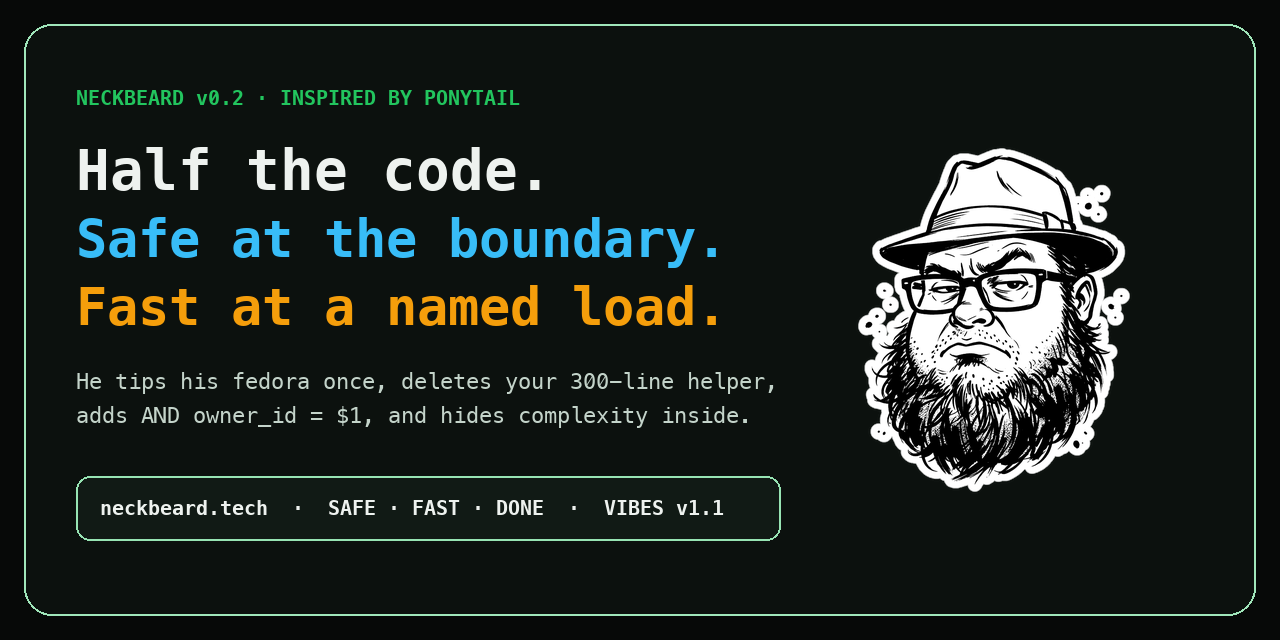
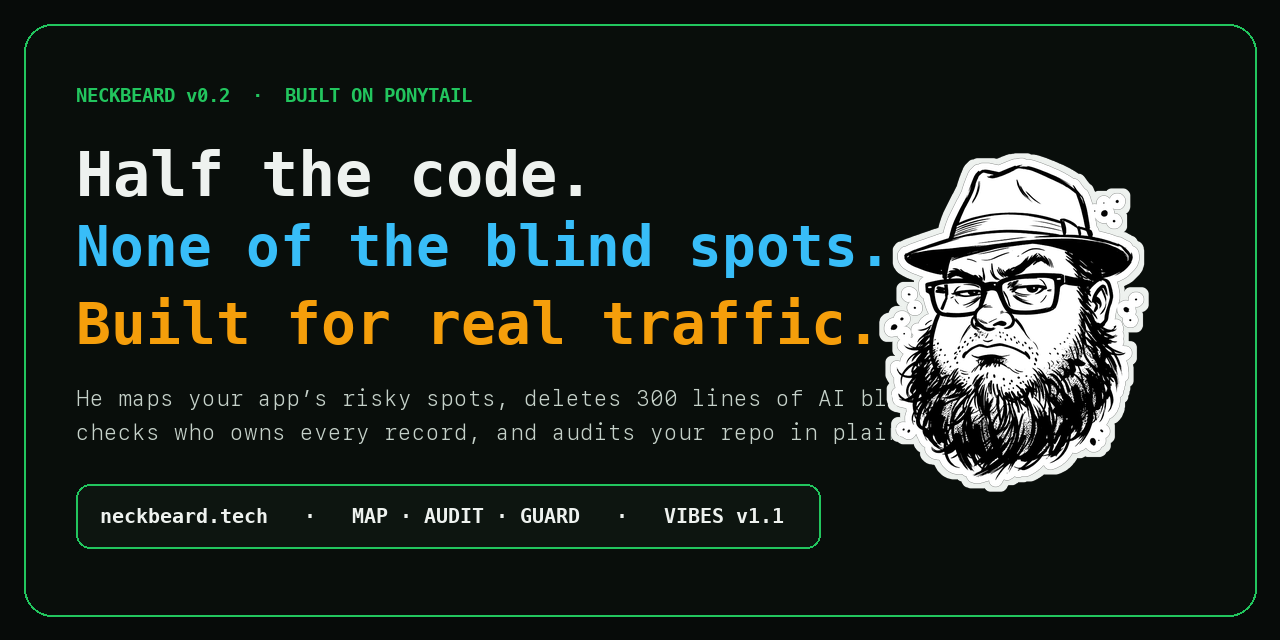
feat(site): add VIBES Protocol (.ai-audit/) Command Center & Provenance Hub section and rebuild dist

diff --git a/index.html b/index.html
@@ -393,9 +393,33 @@ app.post('/api/invoices/archive', requireSession, async (req, res) => {
       </div>
     </section>
 
+    <!-- SECTION 5B: FRONT-AND-CENTER VIBES PROTOCOL (.AI-AUDIT/) DASHBOARD INTEGRATION -->
+    <section id="vibes-hub" class="nb-section">
+      <div class="nb-eyebrow"><span>06</span> // VIBES Protocol (.ai-audit/) Command Center &amp; Provenance Hub</div>
+      <h2 class="nb-h2">Preventive engineering meets cryptographic AI provenance (<a href="https://www.itsavibe.ai" target="_blank" rel="noopener">itsavibe.ai</a>).</h2>
+      <p class="nb-lead">
+        NeckBeard brings the open <strong><a href="https://www.itsavibe.ai" target="_blank" rel="noopener">VIBES Protocol</a></strong> (<code>VIBES v1.1</code>, <code>VERIFY v1.0</code>, <code>PRISM v1.0</code>, <code>EVOLVE v1.0</code>, <code>TRACE v1.0</code>) front and center in the local <strong>NeckBeard Security &amp; Engineering Command Center</strong> (<code>~/.config/neckbeard/telemetry/dashboard.html</code>). When <code>.ai-audit/</code> is present in a workspace, NeckBeard visualizes it automatically—and when absent, includes a one-click interactive preview and onboarding guide.
+      </p>
+
+      <div class="nb-grid-3" style="margin-bottom:20px">
+        <div class="nb-card">
+          <h3 style="color:var(--nb-cyan)">1. VIBES v1.1 &amp; VERIFY v1.0</h3>
+          <p>Tracks content-addressed SHA-256 blobs (<code>.ai-audit/blobs/</code>), line-range file attributions, and Ed25519 DSSE attestation coverage while <code>hooks/guard.js</code> blocks any direct agent tampering with immutable evidence files.</p>
+        </div>
+        <div class="nb-card">
+          <h3 style="color:var(--nb-amber)">2. PRISM v1.0 Risk Histogram</h3>
+          <p>Renders live SVG histograms of Low (<code>&lt;0.30</code>), Moderate (<code>0.30–0.59</code>), High (<code>0.60–0.79</code>), and Critical (<code>&gt;=0.80</code>) PRISM risk scores and highlights file hotspots for <code>/neckbeard-review</code>.</p>
+        </div>
+        <div class="nb-card">
+          <h3 style="color:var(--nb-green)">3. EVOLVE v1.0 &amp; TRACE v1.0</h3>
+          <p>Cross-references <code>risk:</code> comments in source code against EVOLVE decision records in <code>.ai-audit/manifest.json</code> (flagging <code>unrecorded-decision</code>) and tracks TRACE IoC incident resolution.</p>
+        </div>
+      </div>
+    </section>
+
     <!-- SECTION 6: OFFICIAL NECKBEARD BADGE & SEAL OF SURVIVAL -->
     <section id="badge" class="nb-section">
-      <div class="nb-eyebrow"><span>06</span> // The Official Badge &amp; Seal of Survival</div>
+      <div class="nb-eyebrow"><span>07</span> // The Official Badge &amp; Seal of Survival</div>
       <h2 class="nb-h2">Built or refactored with NeckBeard? Put the Seal in your README.</h2>
       <p class="nb-lead">
         We created two official assets for developers and autonomous agents: a compact <strong>GitHub README Pill Badge</strong> highlighting NeckBeard’s three core pillars (<em>Minimal Code · Boundary Safe · Right-Sized Scale</em>) and the <strong>Principal-Engineer Seal of Survival</strong> featuring our sumi-ink ThinkPad mascot.

diff --git a/tests/agent-discovery.test.js b/tests/agent-discovery.test.js
@@ -242,18 +242,19 @@ await test('Hostile inputs fail closed: POST /api/health -> 405, unknown/travers
   assert.equal(coffeeRes.headers.get('x-powered-by'), 'ThinkPad-X220-TrackPoint');
 });
 
-await test('RANTS_BY_TOPIC in assets/site.js contains 16 topics with 20 unique quips each (320 total)', () => {
+await test('Clean-room assets/site.js and index.html contain 100% original NeckBeard interactive modules and VIBES Hub', () => {
   const siteJs = fs.readFileSync('dist/assets/site.js', 'utf8');
-  const m = siteJs.match(/const RANTS_BY_TOPIC = (\{[\s\S]*?\n\});/);
-  assert(m, 'RANTS_BY_TOPIC object found in assets/site.js');
-  const byTopic = JSON.parse(m[1]);
-  const topics = Object.keys(byTopic);
-  assert.equal(topics.length, 16);
-  for (const t of topics) {
-    assert.equal(byTopic[t].length, 20, `Topic ${t} should have 20 quips`);
-  }
-  const all = Object.values(byTopic).flat();
-  assert.equal(new Set(all).size, 320);
+  assert(siteJs.includes('INSTALL_SNIPPETS'), 'INSTALL_SNIPPETS found in assets/site.js');
+  assert(siteJs.includes('LADDER_SCENARIOS'), 'LADDER_SCENARIOS found in assets/site.js');
+  assert(siteJs.includes('GUARD_CASES'), 'GUARD_CASES found in assets/site.js');
+  assert(siteJs.includes('AUDIT_MODES'), 'AUDIT_MODES found in assets/site.js');
+  assert(siteJs.includes('initGateRadarCanvas'), 'initGateRadarCanvas found in assets/site.js');
+  assert(!siteJs.includes('maskOf'), 'assets/site.js must not contain Ponytail maskOf helper');
+  assert(!siteJs.includes('fadeEdges'), 'assets/site.js must not contain Ponytail fadeEdges helper');
+
+  const html = fs.readFileSync('dist/index.html', 'utf8');
+  assert(html.includes('id="vibes-hub"'), 'VIBES Protocol Hub section present in index.html');
+  assert(html.includes('itsavibe.ai'), 'VIBES standard link present in index.html');
 });
 
 console.log(`\n${passed} passed, 0 failed\n`);
